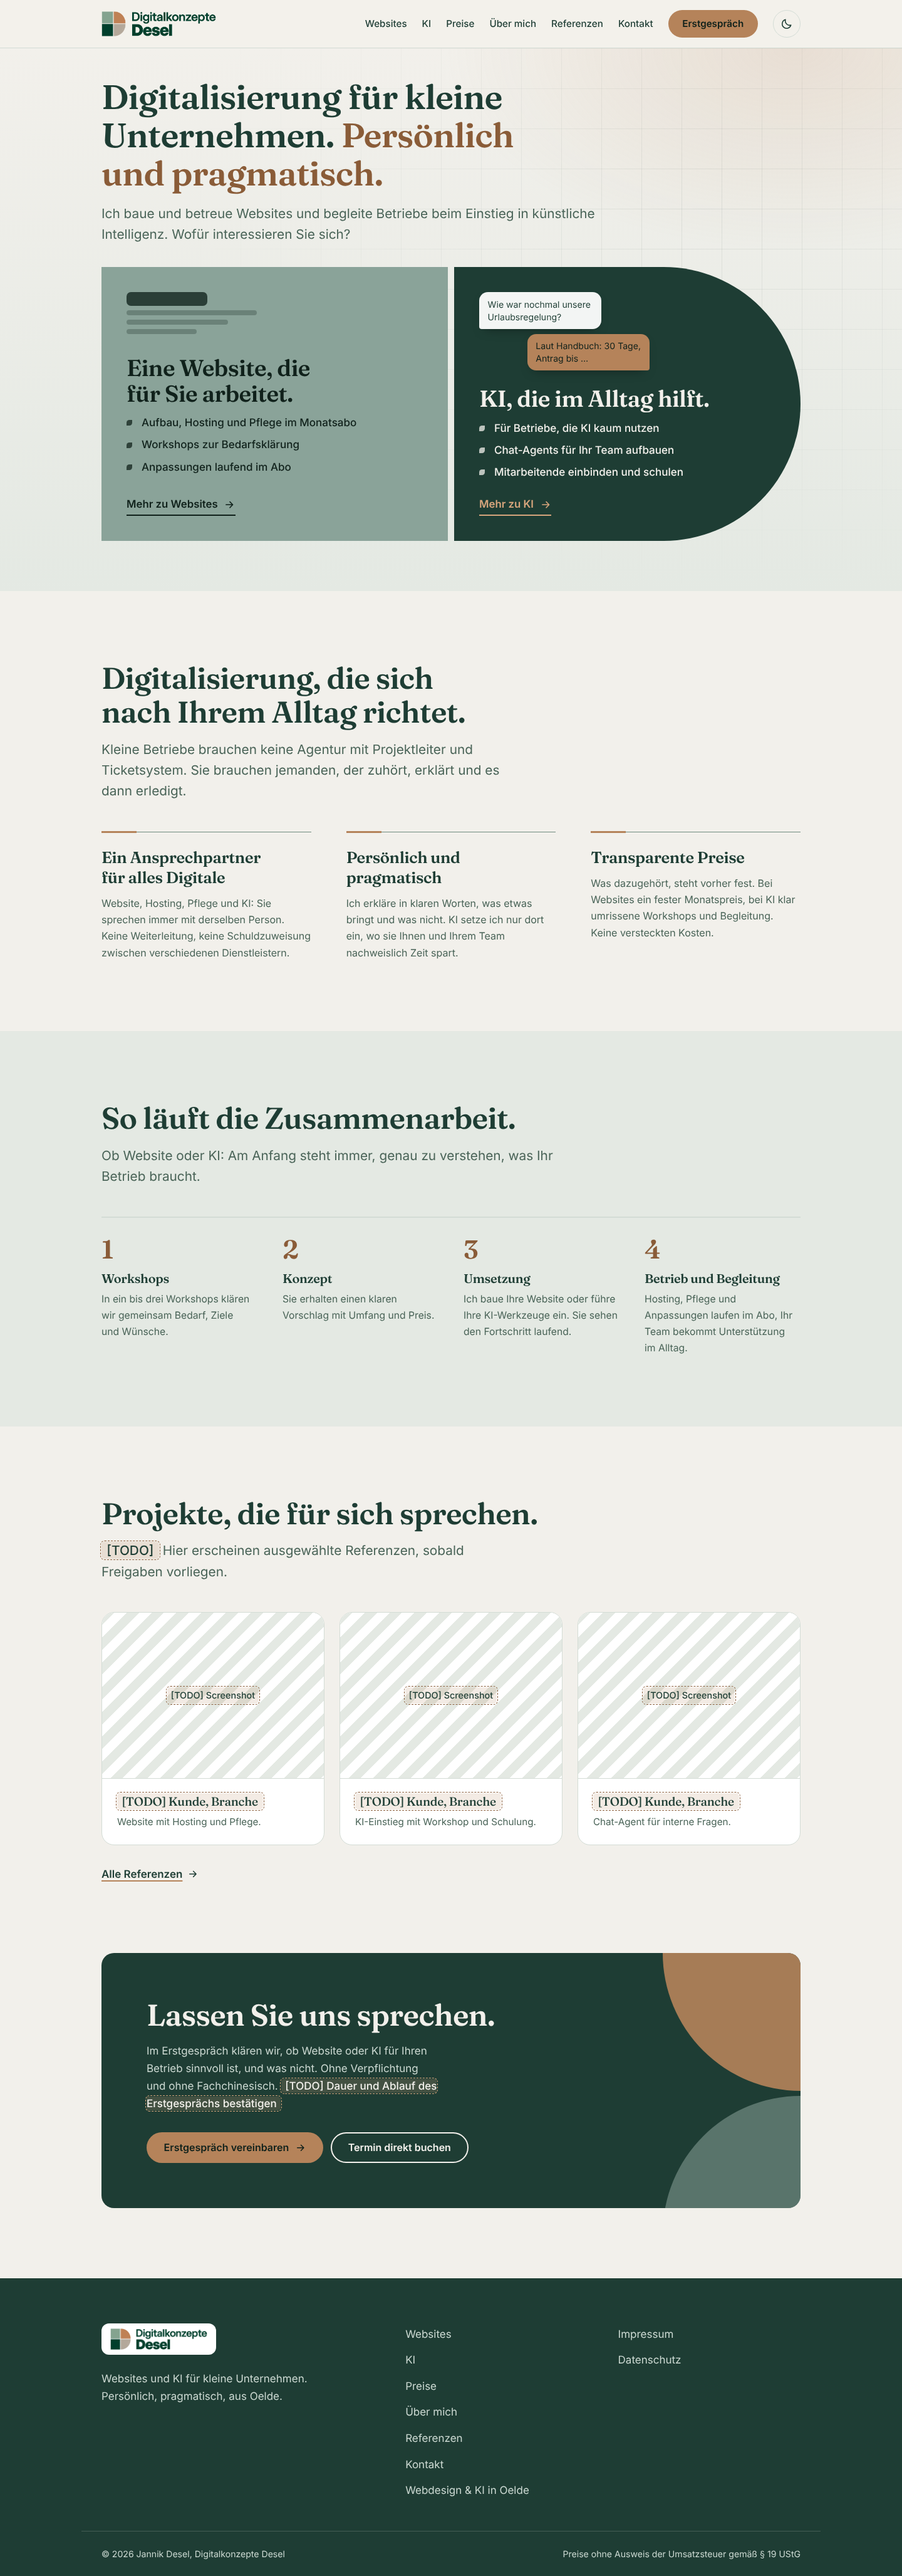
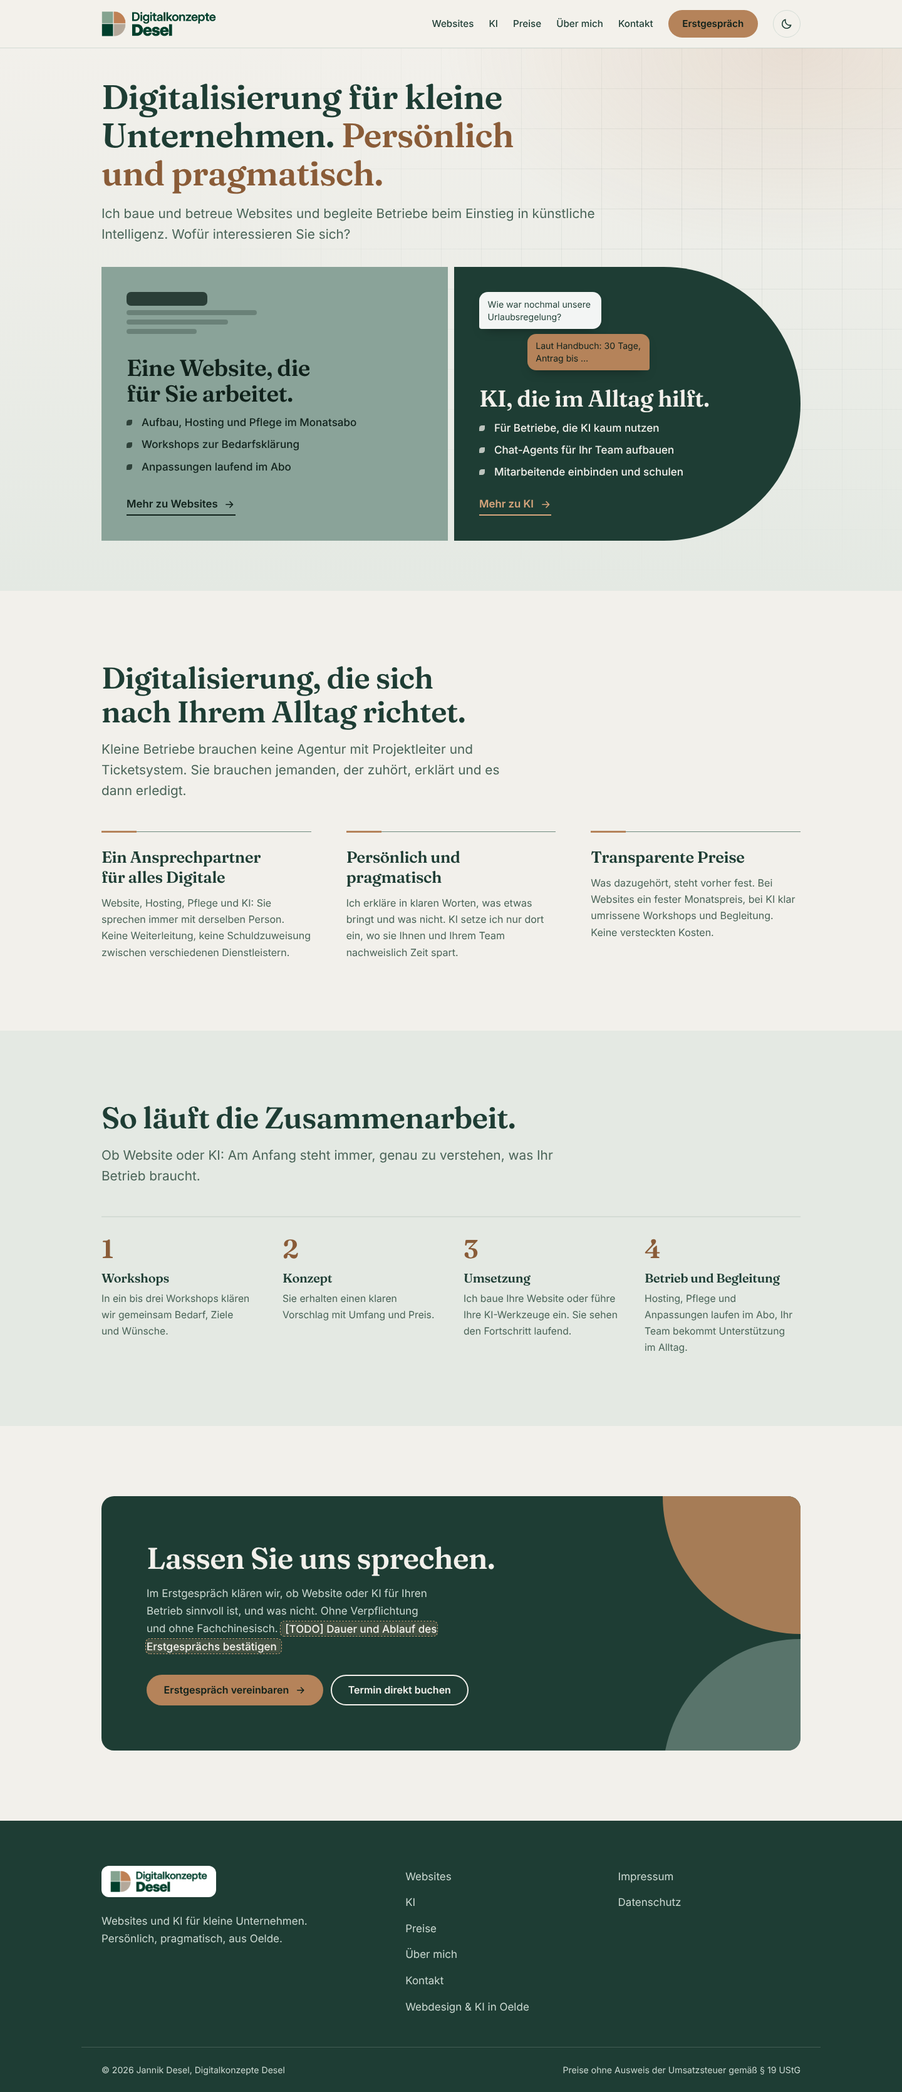
Referenzen entfernt
- Seite /referenzen, Referenz-Abschnitt auf der Startseite und der Menüpunkt entfallen
- Zugehöriges CSS, Seiteneintrag (Sitemap folgt automatisch) und Doku bereinigt

Claude-Session: https://claude.ai/code/session_01XpJqZCL8xR1egXo7dGuarU

diff --git a/assets/css/components.css b/assets/css/components.css
@@ -211,14 +211,7 @@ mark.todo { background: var(--copper-soft); color: var(--ink); padding: .05em .4
 .faq details[open] summary::after { transform: rotate(225deg) translate(-2px, -2px); }
 .faq .answer { padding: 0 0 1.3rem; color: var(--muted); max-width: 62ch; }
 
-/* ---------- Referenzen ---------- */
-.ref-grid { display: grid; grid-template-columns: repeat(auto-fill, minmax(min(100%, 19rem), 1fr)); gap: var(--s-5); }
-.ref { background: var(--surface); border: 1px solid var(--line); border-radius: var(--radius); overflow: hidden; }
-.ref-img { aspect-ratio: 4 / 3; display: grid; place-items: center; text-align: center; padding: var(--s-4); background: repeating-linear-gradient(135deg, var(--bg) 0 14px, transparent 14px 28px), var(--surface); color: var(--muted); font-size: .9rem; border-bottom: 1px solid var(--line); }
-.ref-body { padding: var(--s-5); }
-.ref-body h3, .ref-body .h3-like { font-family: var(--font-display); font-weight: 600; line-height: 1.25; font-size: 1.2rem; margin-bottom: var(--s-2); }
 .more { margin-top: var(--s-6); }
-.ref-body p { color: var(--muted); font-size: .95rem; }
 
 /* ---------- Über mich ---------- */
 .about { display: grid; grid-template-columns: minmax(0, .8fr) minmax(0, 1.2fr); gap: clamp(2rem, 6vw, 5rem); align-items: start; }
@@ -316,7 +309,6 @@ mark.todo { background: var(--copper-soft); color: var(--ink); padding: .05em .4
 .page-hero .stack { margin-top: var(--s-4); }
 .consent label { font-weight: 400; }
 @media (max-width: 520px) {
-  .ref-img { aspect-ratio: 16 / 7; }
 }
 
 /* ---------- Login ---------- */

diff --git a/src/index.html b/src/index.html
@@ -63,19 +63,4 @@
   </div>
 </section>
 
-<section class="section" aria-labelledby="ref-titel">
-  <div class="wrap">
-    <div class="section-head">
-      <h2 id="ref-titel">Projekte, die für sich sprechen.</h2>
-      <p class="lead"><mark class="todo">[TODO]</mark> Hier erscheinen ausgewählte Referenzen, sobald Freigaben vorliegen.</p>
-    </div>
-    <div class="ref-grid">
-      <article class="ref reveal"><div class="ref-img"><mark class="todo">[TODO] Screenshot</mark></div><div class="ref-body"><h3><mark class="todo">[TODO] Kunde, Branche</mark></h3><p>Website mit Hosting und Pflege.</p></div></article>
-      <article class="ref reveal" data-d="1"><div class="ref-img"><mark class="todo">[TODO] Screenshot</mark></div><div class="ref-body"><h3><mark class="todo">[TODO] Kunde, Branche</mark></h3><p>KI-Einstieg mit Workshop und Schulung.</p></div></article>
-      <article class="ref reveal" data-d="2"><div class="ref-img"><mark class="todo">[TODO] Screenshot</mark></div><div class="ref-body"><h3><mark class="todo">[TODO] Kunde, Branche</mark></h3><p>Chat-Agent für interne Fragen.</p></div></article>
-    </div>
-    <p class="more"><a class="arrow-link" href="/referenzen">Alle Referenzen <svg viewBox="0 0 24 24" aria-hidden="true"><path d="M5 12h14M13 6l6 6-6 6"/></svg></a></p>
-  </div>
-</section>
-
 {{include:cta-band}}

diff --git a/README.md b/README.md
@@ -27,7 +27,7 @@ PRODUCT.md      Produktbeschreibung für die Design-Skills
 
 ```
 npm install
-npm test                 # baut und führt 99 Tests aus
+npm test                 # baut und führt alle Tests aus
 npx vercel dev           # lokal mit Formular-Funktion (braucht .env.local)
 node tools/og-image.mjs  # Vorschaubilder (assets/img/og-*.png) neu erzeugen
 ```
@@ -38,7 +38,7 @@ node tools/og-image.mjs  # Vorschaubilder (assets/img/og-*.png) neu erzeugen
 - **Preise:** Richtwerte und Vorschläge, bewusst ohne feste Preise. Websites: Richtwerte in `src/pakete-preise.html` (Abschnitt „Websites im Monatsabo“) und als Satz in `src/websites.html`. KI: die vier Angebote samt Preisvorschlägen in `src/pakete-preise.html` (Abschnitt „KI im Betrieb: Angebote“), als Vorschlag markiert.
 - **Seiten und Menü:** `src/pages.json` (Menüpunkte = Einträge mit `nav`).
 - **Titel und Beschreibungen:** `src/pages.json`. Neue Seite: Datei in `src/` anlegen und in `pages.json` eintragen.
-- **Foto, Referenzen:** Platzhalter in `src/ueber-mich.html` und `src/referenzen.html`.
+- **Foto:** Platzhalter in `src/ueber-mich.html`. Eine Referenzseite gibt es derzeit nicht (bewusst entfernt, bei Bedarf wieder anlegen und in `src/pages.json` eintragen).
 - **Startseite:** Auswahl Websites/KI in `src/index.html` (zwei Flächen, die zusammen das „D“ des Logos bilden). Beide Flächen sind komplett klickbar und per Tastatur erreichbar.
 - **Terminbuchung:** Link in `src/kontakt.html` (Abschnitt „Termin direkt buchen“) eintragen. Nur verlinken, nicht einbetten (sonst Fremdverbindung ohne Einwilligung).
 

diff --git a/PRODUCT.md b/PRODUCT.md
@@ -41,7 +41,7 @@ Ein persönlicher Ansprechpartner für alles Digitale statt Agentur-Hotline: Web
 - Kein Tracking, keine einwilligungspflichtigen Cookies (nur das technisch notwendige Login-Cookie), Schriften lokal, keine Fremdinhalte. Passwortschutz über `SITE_PASSWORD`. Terminbuchung nur als Link.
 - Impressum und Datenschutzerklärung nur als Entwurf, rechtliche Prüfung steht aus.
 - Texte sind erster Entwurf, offene Stellen stehen als `[TODO]` im Text.
-- Offen: echte Preise, Foto und Werdegang, Referenzen, Terminbuchungstool, E-Mail-Adresse und Telefon, Postfach der neuen Domain, ob der Betreiber Partner von Langdock ist.
+- Offen: echte Preise, Foto und Werdegang, Terminbuchungstool, E-Mail-Adresse und Telefon, Postfach der neuen Domain, ob der Betreiber Partner von Langdock ist.
 
 ## Brand Commitments
 
@@ -52,7 +52,7 @@ Ein persönlicher Ansprechpartner für alles Digitale statt Agentur-Hotline: Web
 
 ## Evidence on Hand
 
-Keine Kundenstimmen, keine Referenzprojekte, kein Foto, keine echten Preise. Nichts davon erfinden. Referenzen und Foto bleiben markierte Platzhalter. Die Chat-Demo auf der KI-Seite ist eine **statische Beispiel-Unterhaltung** (interner Betriebs-Assistent) und wird als „Demo“ gekennzeichnet.
+Keine Kundenstimmen, keine Referenzprojekte, kein Foto, keine echten Preise. Nichts davon erfinden. Eine Referenzseite gibt es bewusst nicht (entfernt). Das Foto bleibt markierte Platzhalter. Die Chat-Demo auf der KI-Seite ist eine **statische Beispiel-Unterhaltung** (interner Betriebs-Assistent) und wird als „Demo“ gekennzeichnet.
 
 ## Product Principles
 
